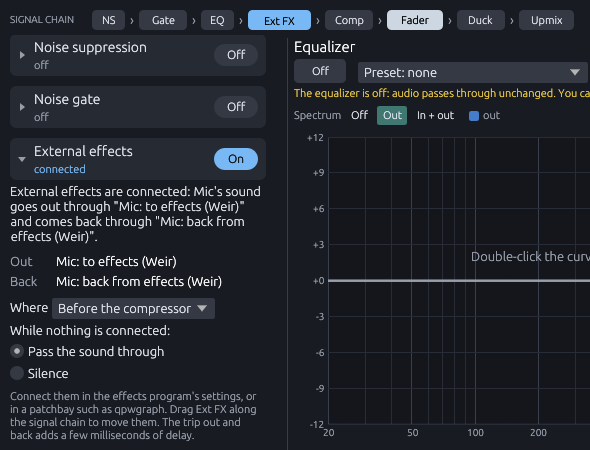
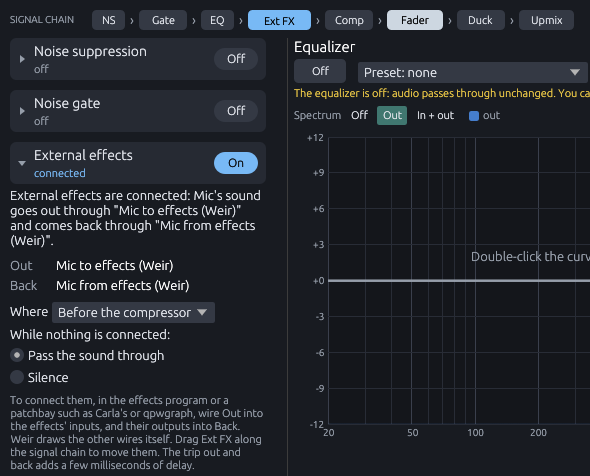
Explain wiring up external effects step by step
The settings window now says, once external effects are on, what to do
in a patchbay: wire Out into the effects' inputs and their outputs into
Back, and leave the other wires to Weir, which draws them itself. The
user guide walks through connecting a reverb in Carla's patchbay, says
what the line of blocks looks like afterwards, and how to keep the
wiring for next time. The screenshot shows the new device names.

Claude-Session: https://claude.ai/code/session_01PWaMWDrXpfpALWtEnsyueZ

diff --git a/crates/gui/src/fx_window/external.rs b/crates/gui/src/fx_window/external.rs
@@ -163,11 +163,21 @@ impl FxWindow {
                 actions.push(effects::request(self.target, patch));
             }
         }
+        // The one thing to do by hand, said in a patchbay's terms; the
+        // rows above name the devices.
+        let how = if insert.enabled {
+            "To connect them, in the effects program or a patchbay such as Carla's or \
+             qpwgraph, wire Out into the effects' inputs, and their outputs into Back. Weir \
+             draws the other wires itself. "
+        } else {
+            ""
+        };
         note(
             ui,
-            "Connect them in the effects program's settings, or in a patchbay such as \
-             qpwgraph. Drag Ext FX along the signal chain to move them. The trip out and \
-             back adds a few milliseconds of delay.",
+            &format!(
+                "{how}Drag Ext FX along the signal chain to move them. The trip out and back \
+                 adds a few milliseconds of delay."
+            ),
         );
     }
 }

diff --git a/docs/USER_GUIDE.md b/docs/USER_GUIDE.md
@@ -391,6 +391,27 @@ Connect the program to them in its own settings, or with a patchbay such
 as Carla's or qpwgraph. What comes back carries on through the rest of the
 chain.
 
+**Connecting Carla, step by step.** Say you want a reverb on Music:
+
+1. Switch on **External effects** for Music. Its badge shows a yellow
+   **EXT !** until the effects are connected.
+2. In Carla, click **Add Plugin** and load your reverb.
+3. Open Carla's **Patchbay** tab. Each program and device is a block, with
+   its inputs on the left and its outputs on the right.
+4. Find **Music to effects (Weir)**. Drag a wire from each of its outputs,
+   left and right, to the reverb's inputs.
+5. Drag a wire from each of the reverb's outputs to the inputs of
+   **Music from effects (Weir)**.
+
+The badge turns into a blue **EXT**, and Music plays through the reverb.
+With Weir's own wires, the blocks make a line: Weir's engine, **Weir
+Engine**, into "Music to effects", through the reverb, into "Music from
+effects", and on into **Weir effects return**, where the sound comes back
+into Weir. Weir draws the wires to and from its own blocks itself, and
+draws them again if one is removed, so there is nothing else to connect. To keep the wiring
+for next time, save a project in Carla (**File › Save**) and open it again
+later.
+
 **Where they go.** **Ext FX** sits in the signal chain along the top of
 the settings window. Drag it to another gap to move it, or choose under
 **Where**. A strip's can go anywhere from before noise suppression to just
